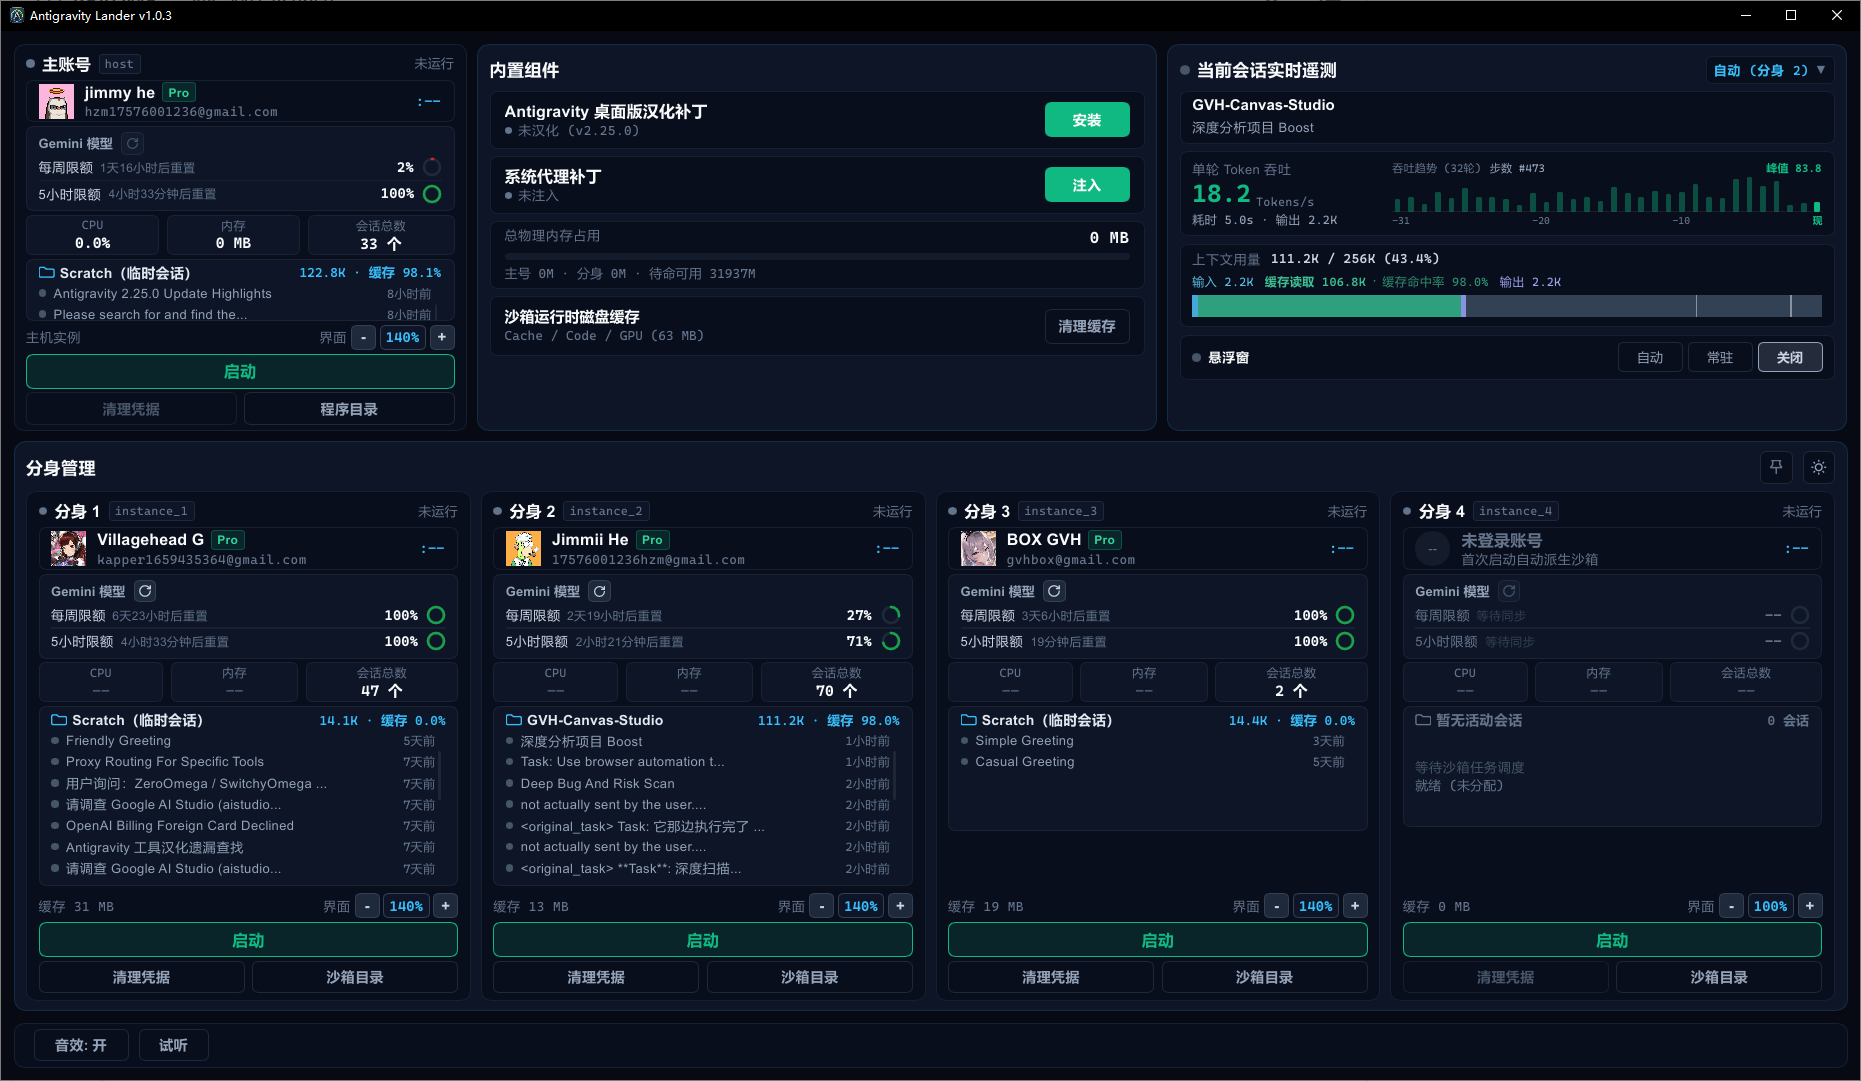
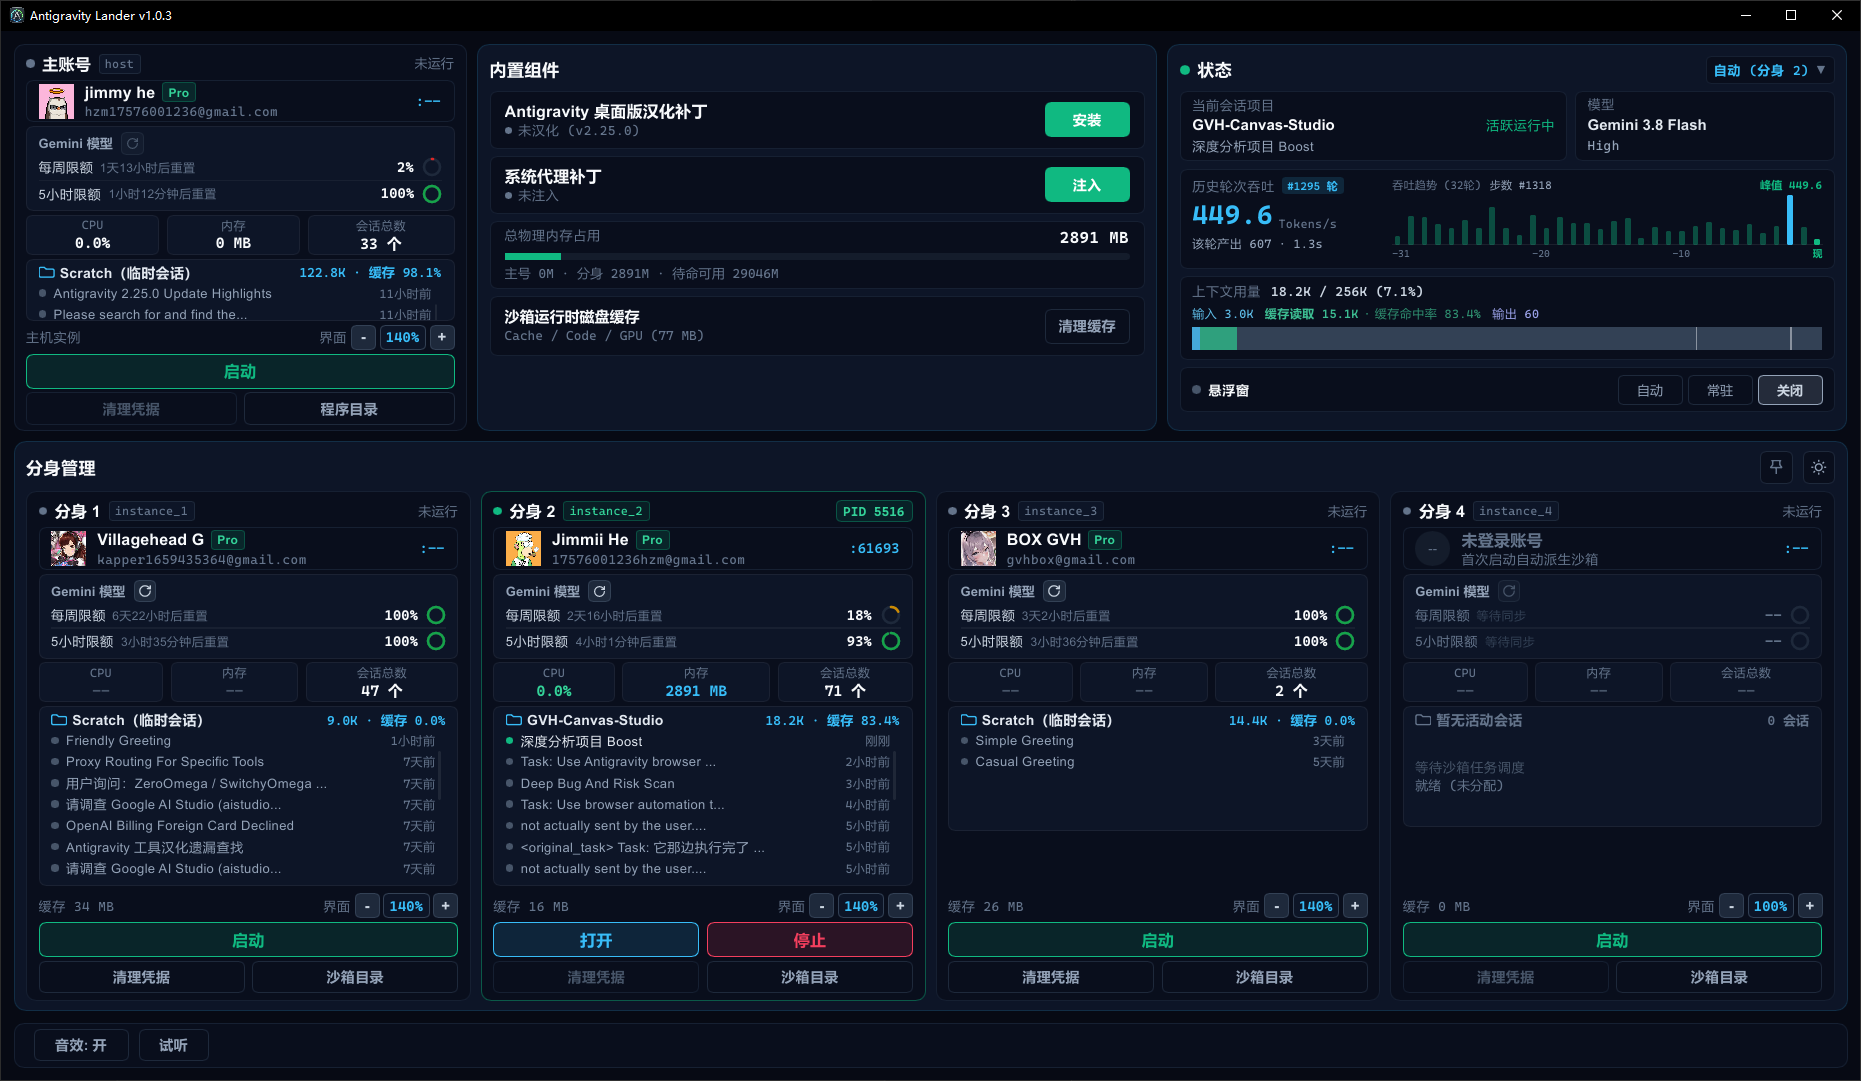
feat(telemetry): 状态卡片改版，项目与模型并排并加高吞吐图
- 卡片标题由「当前会话实时遥测」收敛为「状态」
- 项目块增加灰字用途标题「当前会话项目」，块高 42 → 56
- 新增模型框：标题行 + 模型名 + 思考强度三行，与项目块并排等高 56，模型框定宽 208
- 模型与强度取自 plannerConfig.modelName，按末段枚举剥离强度后缀，responseModel 兜底，占位枚举判空
- 吞吐块左列改顶端对齐，标题与右侧趋势表头同线；数值 20 → 22px，行距 2 → 4px
- 柱状图高度 28 → 40，卡片整体维持 310，不动主账号与组件卡
- 更新界面预览图

diff --git a/src/session.rs b/src/session.rs
@@ -80,6 +80,8 @@ pub struct SessionItem {
     pub cache_rate_str: String,
     pub time_ago_str: String,
     pub step_count: u32,
+    pub model_name: String,
+    pub thinking_level: String,
     pub round_duration_secs: f32,
     pub ttft_secs: f32,
     pub round_tps: f32,
@@ -287,6 +289,14 @@ struct GeneratorMetadataEntry {
     step_indices: Vec<u32>,
     #[serde(rename = "chatModel")]
     chat_model: Option<GeneratorChatModel>,
+    #[serde(rename = "plannerConfig", default)]
+    planner_config: Option<GeneratorPlannerConfig>,
+}
+
+#[derive(Deserialize, Default)]
+struct GeneratorPlannerConfig {
+    #[serde(rename = "modelName", default)]
+    model_name: Option<String>,
 }
 
 #[derive(Deserialize, Default)]
@@ -295,6 +305,8 @@ struct GeneratorChatModel {
     streaming_duration: Option<String>,
     #[serde(rename = "timeToFirstToken")]
     time_to_first_token: Option<String>,
+    #[serde(rename = "responseModel", default)]
+    response_model: Option<String>,
     usage: Option<GeneratorUsage>,
 }
 
@@ -308,6 +320,58 @@ struct GeneratorUsage {
 
 fn parse_seconds_suffix(s: &str) -> Option<f32> {
     s.trim_end_matches('s').parse::<f32>().ok()
+}
+
+fn pretty_model_token(token: &str) -> String {
+    let mut chars = token.chars();
+    match chars.next() {
+        Some(first) if first.is_ascii_alphabetic() => {
+            let mut out = String::new();
+            out.extend(first.to_uppercase());
+            out.push_str(chars.as_str());
+            out
+        }
+        _ => token.to_string(),
+    }
+}
+
+pub fn format_model_display(raw: &str) -> (String, String) {
+    let trimmed = raw.trim();
+    if trimmed.is_empty() || trimmed.starts_with("MODEL_PLACEHOLDER") {
+        return ("--".to_string(), "--".to_string());
+    }
+    let lower = trimmed.to_ascii_lowercase();
+    let mut parts: Vec<&str> = lower.split('-').filter(|p| !p.is_empty()).collect();
+
+    let mut level = "--".to_string();
+    if let Some(last) = parts.last().copied()
+        && matches!(last, "minimal" | "low" | "medium" | "high") {
+            level = pretty_model_token(last);
+            parts.pop();
+        }
+    if parts.len() > 2
+        && parts.last().map(|p| p.len() == 1 && p.chars().all(|c| c.is_ascii_alphabetic())).unwrap_or(false) {
+            parts.pop();
+        }
+    if parts.is_empty() {
+        return ("--".to_string(), level);
+    }
+
+    let mut name = String::new();
+    let mut prev_numeric = false;
+    for part in &parts {
+        let numeric = part.chars().all(|c| c.is_ascii_digit() || c == '.');
+        if !name.is_empty() {
+            if prev_numeric && numeric {
+                name.push('.');
+            } else {
+                name.push(' ');
+            }
+        }
+        name.push_str(&pretty_model_token(part));
+        prev_numeric = numeric;
+    }
+    (name, level)
 }
 
 pub fn enrich_session_with_rpc(s: &mut SessionItem, port: u16, csrf: &str) {
@@ -325,6 +389,26 @@ pub fn enrich_session_with_rpc(s: &mut SessionItem, port: u16, csrf: &str) {
     };
     if parsed.generator_metadata.is_empty() {
         return;
+    }
+
+    let raw_model = parsed
+        .generator_metadata
+        .iter()
+        .rev()
+        .filter_map(|e| e.planner_config.as_ref()?.model_name.clone())
+        .find(|m| !m.trim().is_empty())
+        .or_else(|| {
+            parsed
+                .generator_metadata
+                .iter()
+                .rev()
+                .filter_map(|e| e.chat_model.as_ref()?.response_model.clone())
+                .find(|m| !m.trim().is_empty())
+        });
+    if let Some(raw) = raw_model {
+        let (name, level) = format_model_display(&raw);
+        s.model_name = name;
+        s.thinking_level = level;
     }
 
     let mut samples = Vec::new();
@@ -818,6 +902,8 @@ pub fn scan_sandbox_sessions(sandbox_home: &Path, slot: u8) -> InstanceSessions 
             cache_rate_str,
             time_ago_str,
             step_count,
+            model_name: String::new(),
+            thinking_level: String::new(),
             round_duration_secs: tail.round_duration_secs,
             ttft_secs: tail.ttft_secs,
             round_tps: tail.round_tps,
@@ -897,6 +983,31 @@ mod tests {
         assert_eq!(format_tokens(500), "500");
         assert_eq!(format_tokens(1500), "1.5K");
         assert_eq!(format_tokens(2_500_000), "2.50M");
+    }
+
+    #[test]
+    fn test_format_model_display() {
+        assert_eq!(
+            format_model_display("gemini-3.8-flash-high"),
+            ("Gemini 3.8 Flash".to_string(), "High".to_string())
+        );
+        assert_eq!(
+            format_model_display("gemini-3.8-pro-medium"),
+            ("Gemini 3.8 Pro".to_string(), "Medium".to_string())
+        );
+        assert_eq!(
+            format_model_display("gemini-3.8-flash-n"),
+            ("Gemini 3.8 Flash".to_string(), "--".to_string())
+        );
+        assert_eq!(
+            format_model_display("claude-sonnet-4-5"),
+            ("Claude Sonnet 4.5".to_string(), "--".to_string())
+        );
+        assert_eq!(format_model_display(""), ("--".to_string(), "--".to_string()));
+        assert_eq!(
+            format_model_display("MODEL_PLACEHOLDER_M318"),
+            ("--".to_string(), "--".to_string())
+        );
     }
 
     #[test]

diff --git a/src/gui.rs b/src/gui.rs
@@ -3220,6 +3220,8 @@ pub fn run_gui(activation_event: crate::ActivationEvent) -> Result<()> {
                     ui.set_live_session_status_text(if s.is_running { "活跃运行中".into() } else { "".into() });
                     ui.set_live_session_project(s.project_name.as_str().into());
                     ui.set_live_session_title(s.title.as_str().into());
+                    ui.set_live_model_name(if s.model_name.is_empty() { "--".into() } else { s.model_name.as_str().into() });
+                    ui.set_live_model_level(if s.model_name.is_empty() || s.thinking_level == "--" { "".into() } else { s.thinking_level.as_str().into() });
 
                     if !is_hovering {
                         if s.is_running {
@@ -3251,7 +3253,7 @@ pub fn run_gui(activation_event: crate::ActivationEvent) -> Result<()> {
                         if tps <= 0.0 {
                             3.0
                         } else {
-                            (3.0 + (tps / max_tps) * 25.0).clamp(3.0, 28.0)
+                            (3.0 + (tps / max_tps) * 37.0).clamp(3.0, 40.0)
                         }
                     };
                     let bars: Vec<f32> = s.recent_tps.iter().map(|&v| calc_h(v)).collect();
@@ -3313,6 +3315,8 @@ pub fn run_gui(activation_event: crate::ActivationEvent) -> Result<()> {
                     ui.set_live_session_status_text("".into());
                     ui.set_live_session_project("--".into());
                     ui.set_live_session_title("无活动会话".into());
+                    ui.set_live_model_name("--".into());
+                    ui.set_live_model_level("".into());
                     ui.set_live_session_speed_text("0.0".into());
                     ui.set_live_session_speed_sub("无吞吐".into());
                     ui.set_live_session_context_text("0 / 256K (0.0%)".into());
